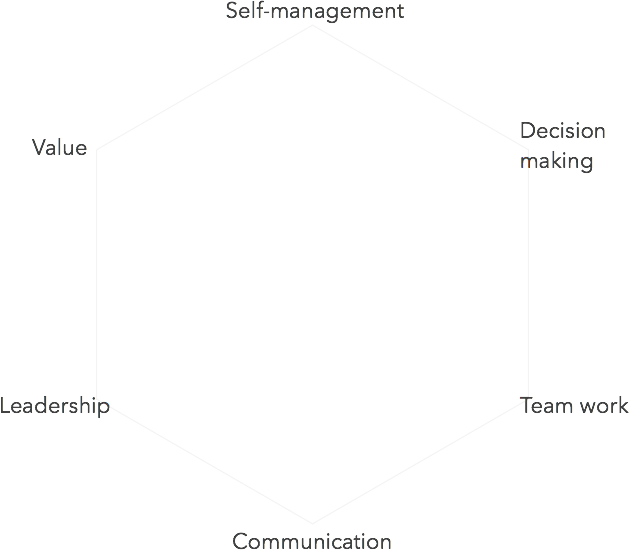
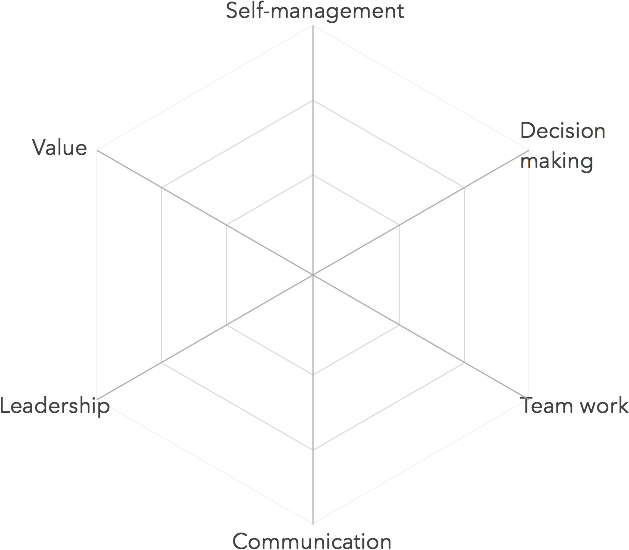
Fixed profile diagram image bg

diff --git a/main.js b/main.js
@@ -42,19 +42,18 @@ if (Meteor.isClient) {
   
     Template.profile.helpers({
         x1 : function() {return Math.round(150-150*par1)},
-        y1 : function() {return Math.round(150-75*par1)},
+        y1 : function() {return Math.round(150-86.6*par1)},
         x2 : function() {return 150},
         y2 : function() {return Math.round(150-150*par2)},
         x3 : function() {return Math.round(150+150*par3)},
-        y3 : function() {return Math.round(150-75*par3)},
+        y3 : function() {return Math.round(150-86.6*par3)},
         x4 : function() {return Math.round(150+150*par4)},
-        y4 : function() {return Math.round(150+75*par4)},
+        y4 : function() {return Math.round(150+86.6*par4)},
         x5 : function() {return 150},
         y5 : function() {return Math.round(150+150*par5)},
         x6 : function() {return Math.round(150-150*par6)},
-        y6 : function() {return Math.round(150+75*par6)},
+        y6 : function() {return Math.round(150+86.6*par6)},
     });
-
 
     Template.quiz.events({
         "click button" : function(){

diff --git a/main.html b/main.html
@@ -19,10 +19,10 @@
     {{profile.firstName}} {{profile.lastName}}
   </section>
   <section>
-    <div style="background: url('img/skills.png') cover no-repeat center center">
+    <div height="300px" style="background-image: url('/img/skills.png'); background-size: cover; background-position: center">
       <svg height="300" width="300">
-        <polygon points="{{x1}},{{y1}} {{x2}},{{y2}} {{x3}},{{y3}} {{x4}},{{y4}} {{x5}},{{y5}} {{x6}},{{y6}}" 
-                 style="fill:lime; stroke:purple; stroke-width:1" />
+        <polygon points="{{x1}},{{y1}} {{x2}},{{y2}} {{x3}},{{y3}} {{x4}},{{y4}} {{x5}},{{y5}} {{x6}},{{y6}}"
+                 fill=lime fill-opacity="0.25" stroke="purple" stroke-width="1" />
       </svg>
     </div>
   </section>
